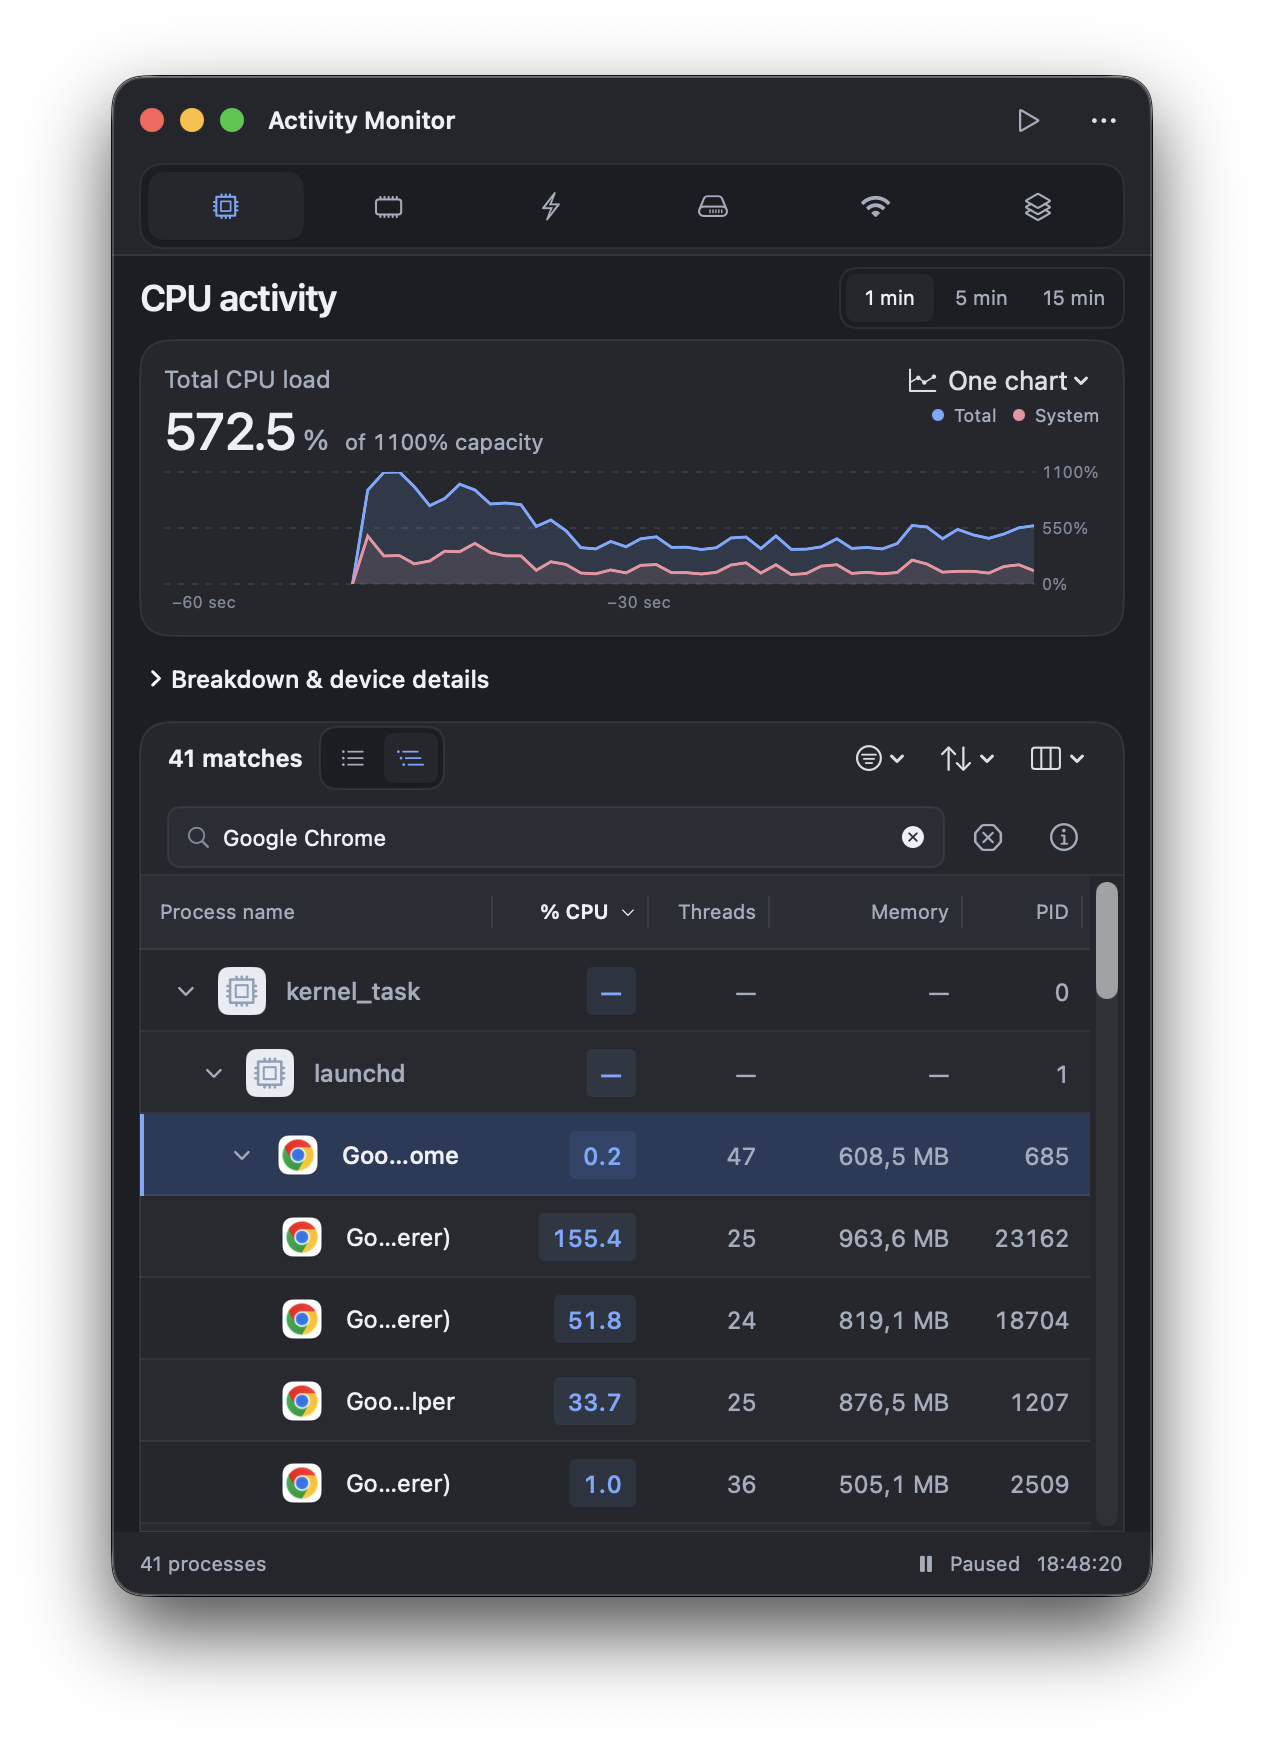
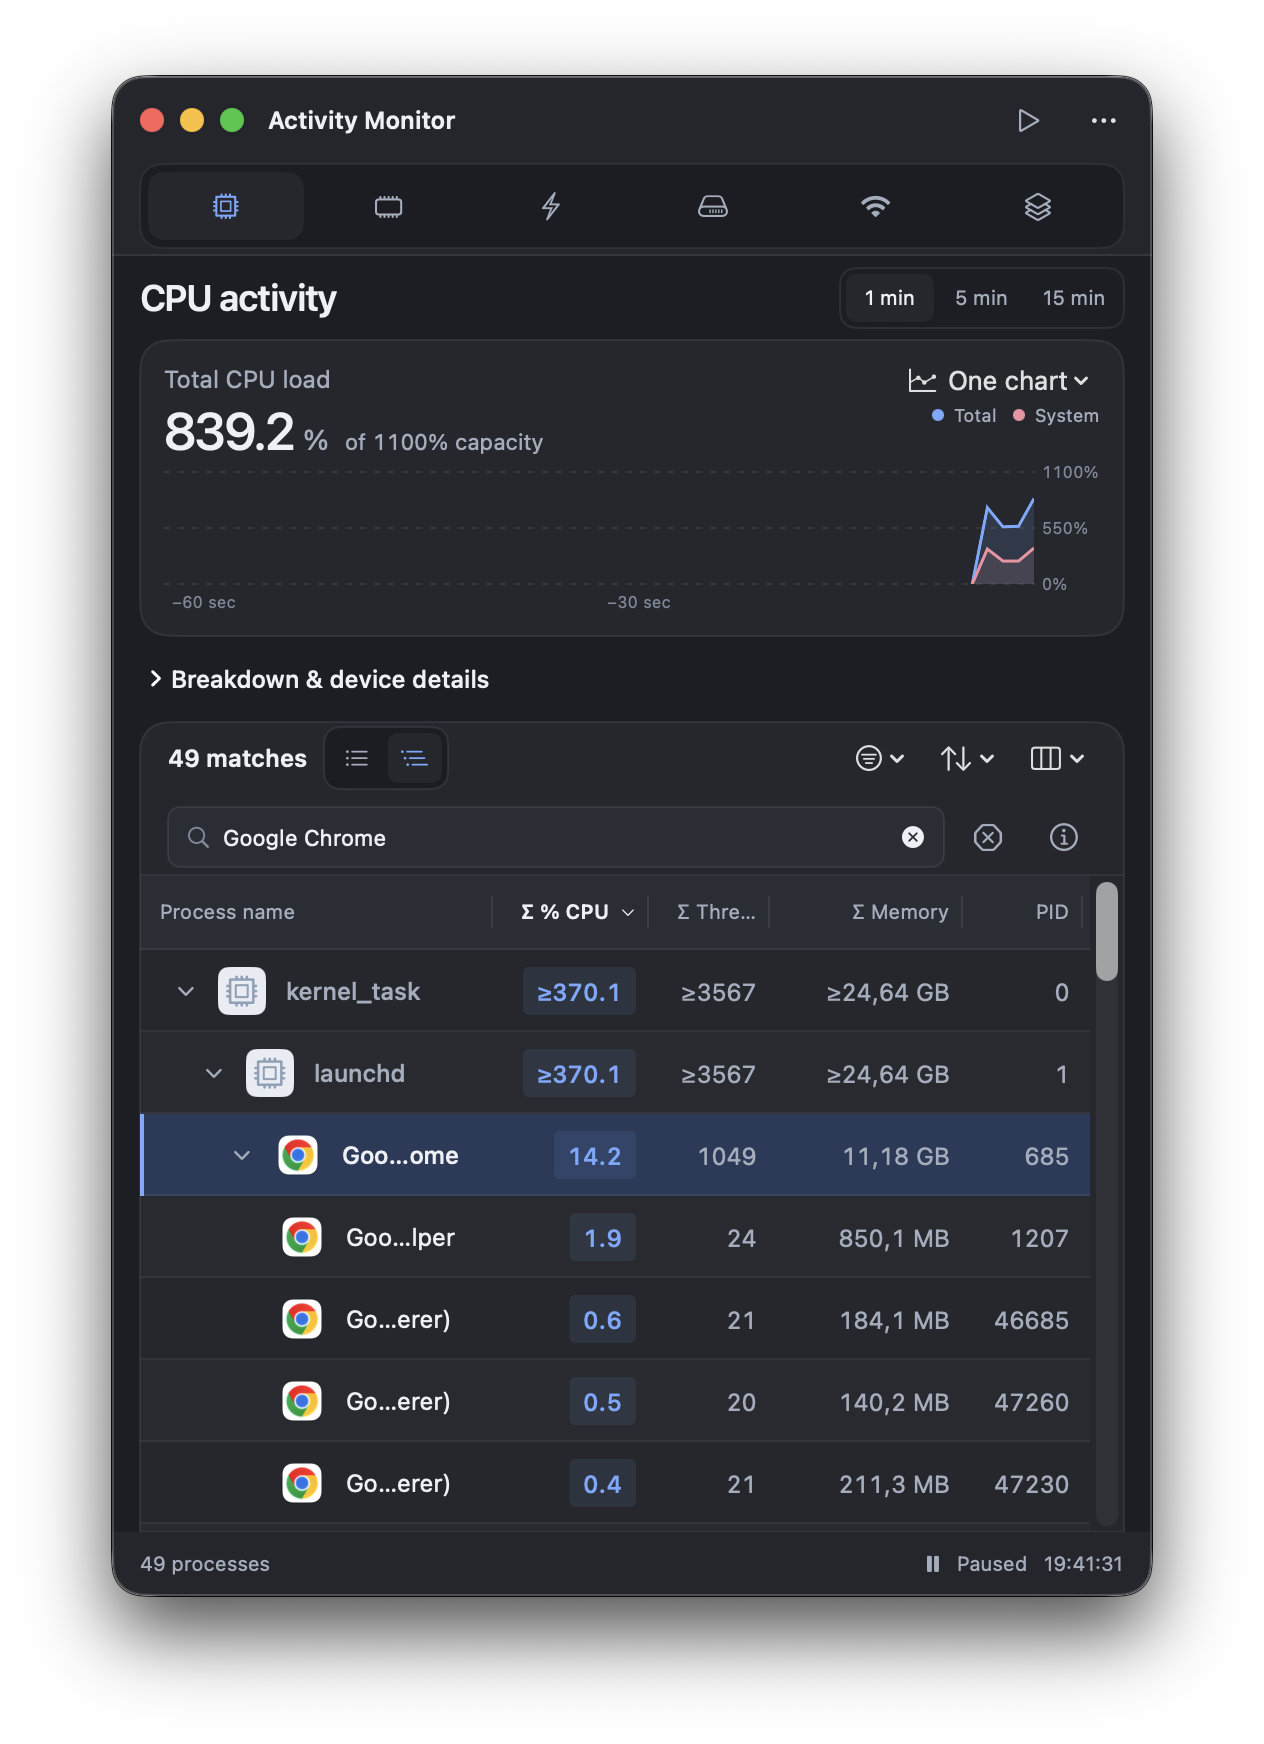
Illustrate and verify compound usage with native process snapshots

diff --git a/docs/screenshots/process-tree/README.md b/docs/screenshots/process-tree/README.md
@@ -1,8 +1,8 @@
 # List and Tree process views
 
-Captured from the running PR 20 app on September 11, 2026. These are real macOS process snapshots, paused with the same **Google Chrome** search for comparison.
+Captured from the running PR 20 app on September 11, 2026. These are real macOS process snapshots, paused at 19:41:31 CEST with the same **Google Chrome** search for comparison.
 
-List shows the matching processes in column order. Tree keeps children under their parents and includes the muted **kernel_task** and **launchd** ancestor rows. The count reports the 41 search matches; those two context rows are additional.
+List shows the matching processes in column order. Tree keeps children under their parents and includes the muted **kernel_task** and **launchd** ancestor rows. The count reports the 49 search matches; those two context rows are additional. Tree columns marked **Σ** include every current descendant, including hidden ones. Chrome shows 14.2% CPU and 11.18 GB across its 49-process subtree; List shows its own 4.2% CPU and 647.3 MB. The **≥** prefix marks partial totals. Memory is summed process accounting and can overlap across shared mappings; it is not unique physical RAM.
 
 | List | Tree |
 | --- | --- |

diff --git a/docs/design/PROCESS_SUBTREE_USAGE.md b/docs/design/PROCESS_SUBTREE_USAGE.md
@@ -35,3 +35,5 @@ Sort roots and siblings by the displayed total, with missing totals last. Copy u
 ## Verification
 
 Use independently calculated multi-level fixtures for every additive metric, including a parent whose own usage is low but whose descendants are busy. Check unavailable parents/children, legitimate zero, rate warm-up, integer precision and overflow, filtering, collapse, reparenting, exits, PID reuse, cycles and deep chains. Check sorting, copy/export and accessibility against the same displayed totals. Retain the existing performance limits, run correctness and release gates, and inspect the updated native app and screenshots.
+
+The September 11, 2026 native verification exported an unfiltered, paused 633-process snapshot. An independent Python traversal recomputed all 12,027 totals from raw own-process records, checking member counts, reported counts, unavailable/partial/complete status and resident fallback counts. Every value matched (integers exactly; floating-point sums within 1e-12 relative tolerance). Native checks also confirmed stable totals after search, collapse and compact resizing, and individual values in List mode.
